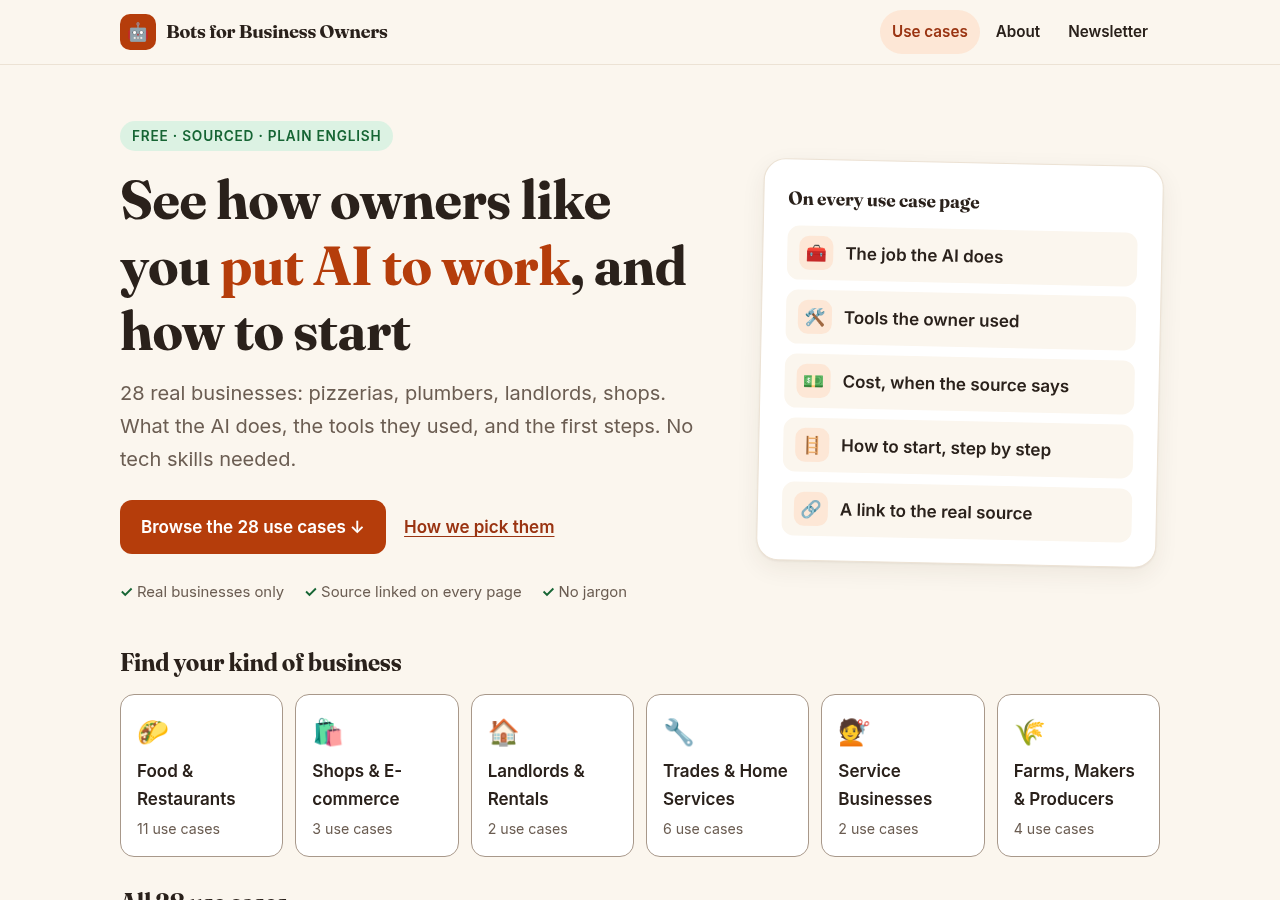
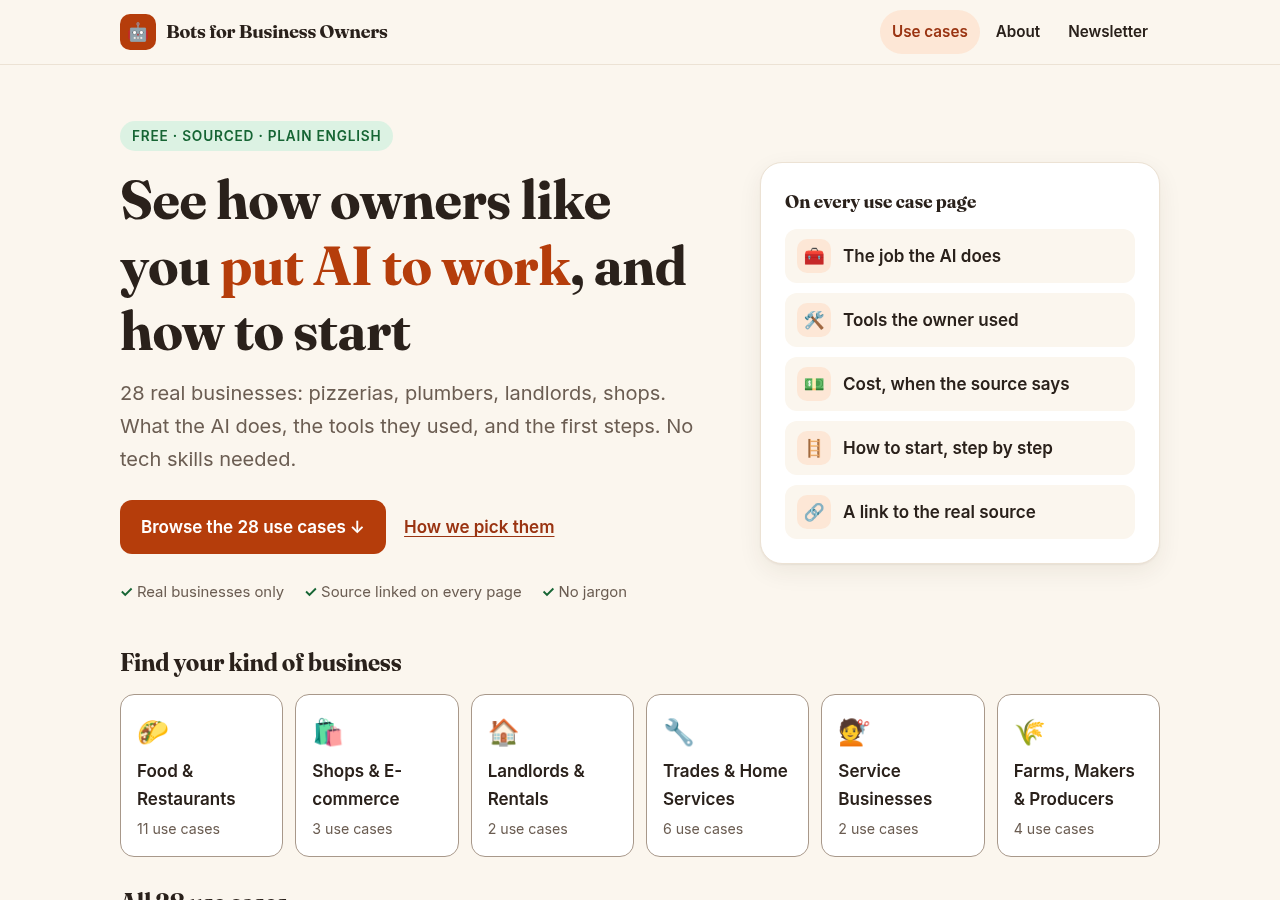
Straighten hero card; add Advertise / Get featured page and Featured slot

diff --git a/src/pages/sitemap.xml.js b/src/pages/sitemap.xml.js
@@ -2,7 +2,7 @@ import { useCases, TYPES } from '../data/usecases.mjs';
 import { SITE } from '../site.mjs';
 export function GET(){
   const today = new Date().toISOString().slice(0,10);
-  const urls = ['/', '/about/', '/newsletter/', ...Object.keys(TYPES).map(t=>`/type/${t}/`), ...useCases.map(u=>`/use-cases/${u.slug}/`)];
+  const urls = ['/', '/about/', '/newsletter/', '/advertise/', ...Object.keys(TYPES).map(t=>`/type/${t}/`), ...useCases.map(u=>`/use-cases/${u.slug}/`)];
   const body = `<?xml version="1.0" encoding="UTF-8"?>\n<urlset xmlns="http://www.sitemaps.org/schemas/sitemap/0.9">\n${urls.map(u=>`  <url><loc>${SITE}${u}</loc><lastmod>${today}</lastmod></url>`).join('\n')}\n</urlset>\n`;
   return new Response(body, { headers: { 'Content-Type': 'application/xml' } });
 }

diff --git a/src/pages/llms.txt.js b/src/pages/llms.txt.js
@@ -7,6 +7,6 @@ export function GET(){
     for (const u of useCases.filter(x=>x.type===k)) t += `- [${u.title}](${SITE}/use-cases/${u.slug}/): ${u.business}. ${u.job} Source: ${u.sourceUrl}\n`;
     t += '\n';
   }
-  t += `## Optional\n\n- [Full text of all use cases](${SITE}/llms-full.txt)\n- [About](${SITE}/about/)\n- [Sitemap](${SITE}/sitemap.xml)\n`;
+  t += `## Optional\n\n- [Full text of all use cases](${SITE}/llms-full.txt)\n- [About](${SITE}/about/)\n- [Advertise / Get featured](${SITE}/advertise/): featured listings and Hands Free newsletter sponsorships, always labeled as paid\n- [Sitemap](${SITE}/sitemap.xml)\n`;
   return new Response(t, { headers: { 'Content-Type': 'text/plain; charset=utf-8' } });
 }
